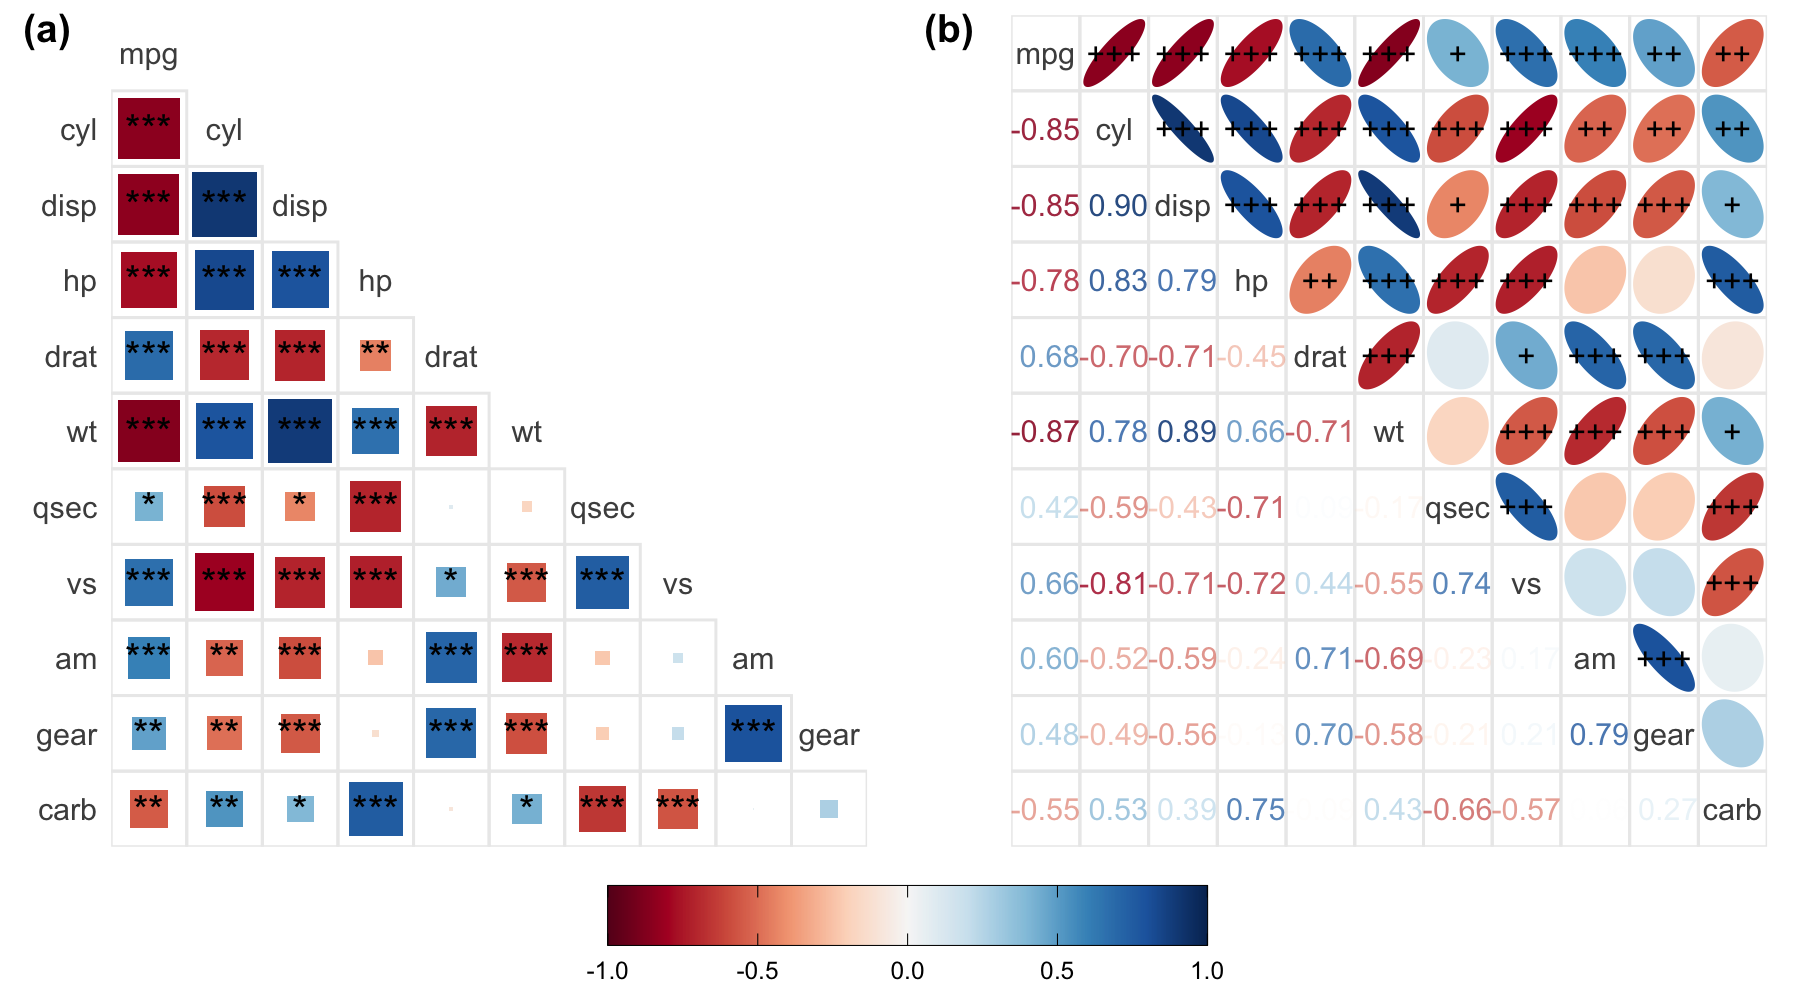
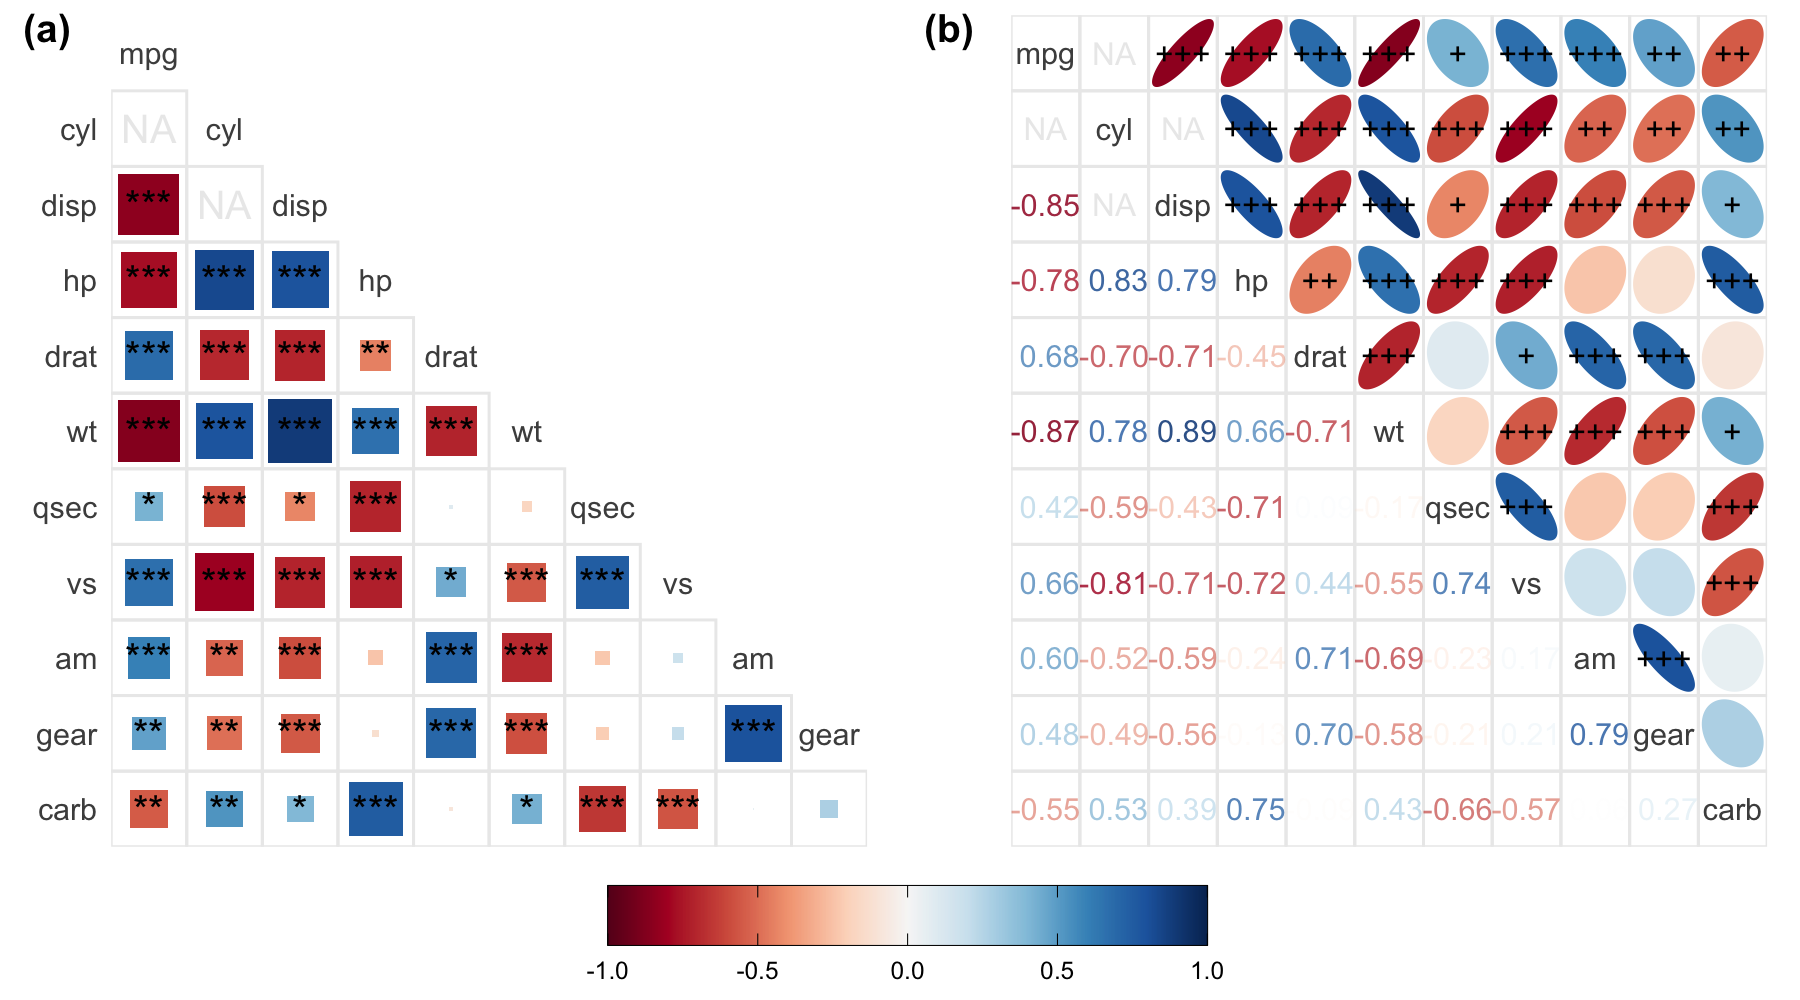
label NAs in corrgram

diff --git a/README.md b/README.md
@@ -157,6 +157,14 @@ a corrgram with other plots (including non-corrgrams) into one plot
 using [cowplot](https://github.com/wilkelab/cowplot), are demonstrated.
 
 ``` r
+# NAs are allowed in correlation matrix and p value matrix, which are labelled as NA
+# Assign NAs
+rid <- c(2, 3, 1, 2)
+cid <- c(3, 2, 2, 1)
+pos <- cbind(rid, cid)
+corr[pos] <- NA
+p.mat[pos] <- NA
+
 # Combine a lower corrgram and a mixed corrgram side by side with a shared colorbar on the bottom
 # a lower corrgram
 p1 <- ggcorrplot(corr, type = "lower", method = "square", p.mat = p.mat, 
